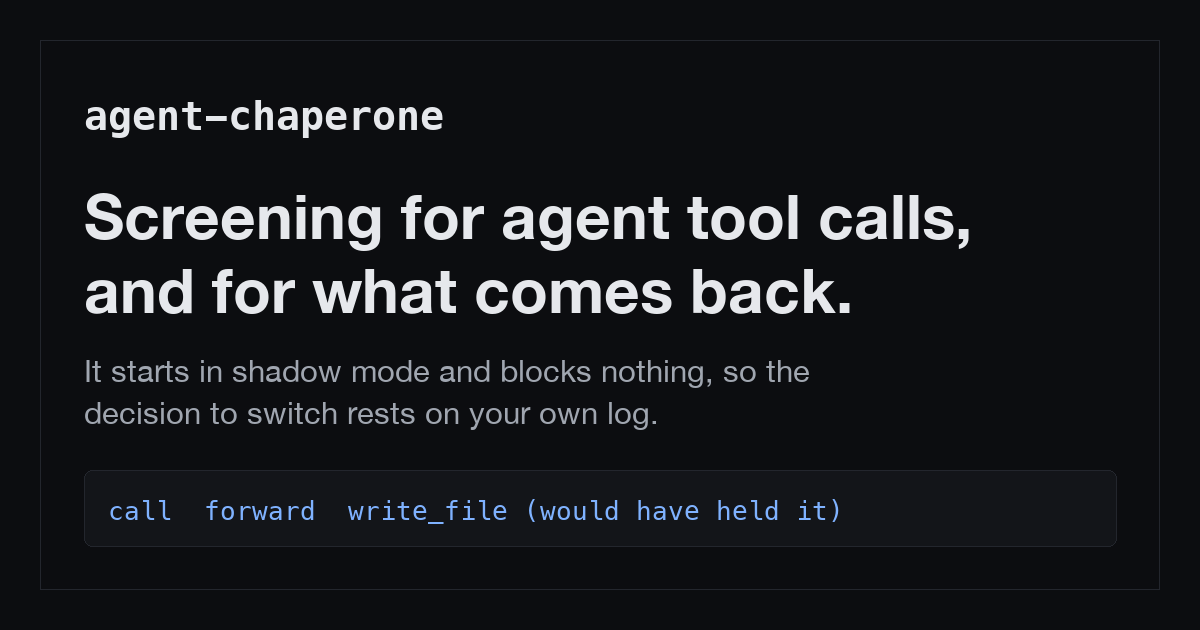
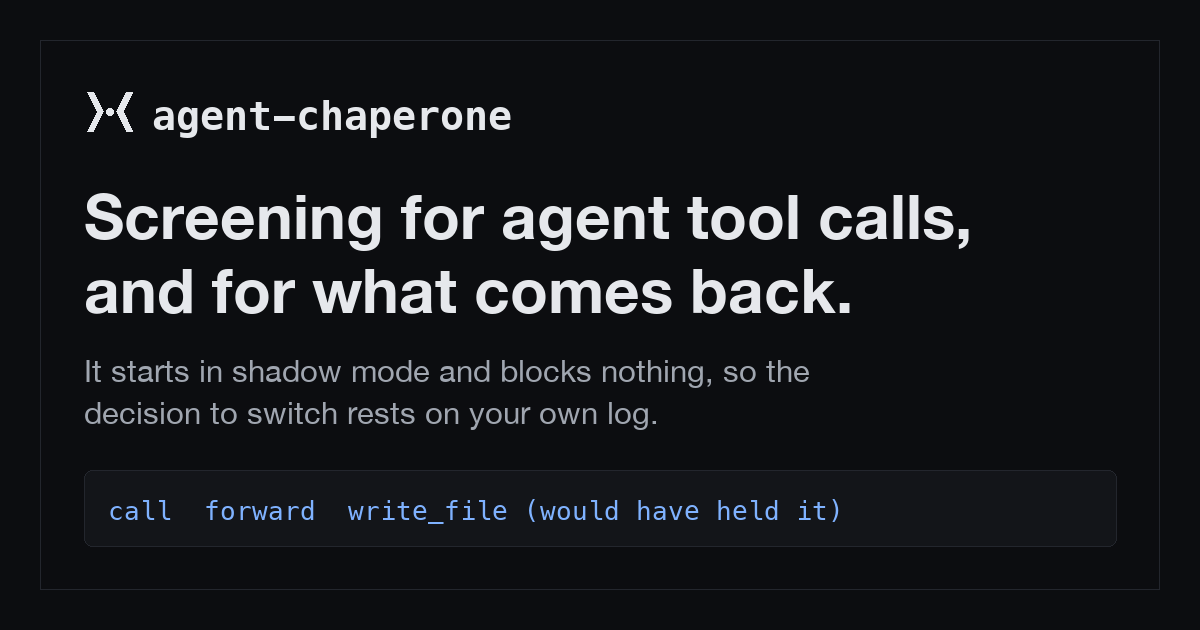
fix: use the project mark instead of one I drew
The mark already existed as the organisation avatar: two chevrons facing inward with a dot between them, which is the thing sitting between an agent and its tools. I did not look for it and drew a generic shield with a tick in it, which is every security tool's placeholder and says nothing about this one.

The geometry here is traced from the avatar and checked against it rather than eyeballed: rendering these paths and diffing them against the original leaves 0.35 percent of pixels different, all of it edge antialiasing.

It now appears in three places that previously had nothing or had the shield: the favicon, the header beside the wordmark, and the social card, which had no mark on it at all.

public/logo.svg is the bare mark in currentColor so it takes the colour of whatever it sits in, and the favicon is the same geometry on the dark rounded square the avatar uses.

Changed region(s): [[0.0617, 0.1508, 0.4317, 0.2413]]

diff --git a/scripts/make-og.py b/scripts/make-og.py
@@ -28,6 +28,25 @@ def font(path: str, size: int, index: int = 0) -> ImageFont.FreeTypeFont:
     return ImageFont.truetype(path, size, index=index)
 
 
+def draw_mark(d: ImageDraw.ImageDraw, x: int, y: int, size: int, fill: tuple) -> None:
+    """The project mark: two chevrons facing inward with a dot between them.
+
+    Same geometry as public/logo.svg, scaled from its 460 unit box.
+    """
+    k = size / 460
+
+    def at(pts):
+        return [(x + px * k, y + py * k) for px, py in pts]
+
+    d.polygon(at([(30, 57), (85, 57), (172, 229.5), (85, 402), (30, 402), (115, 229.5)]), fill=fill)
+    d.polygon(
+        at([(430, 57), (375, 57), (288, 229.5), (375, 402), (430, 402), (345, 229.5)]), fill=fill
+    )
+    r = 30.5 * k
+    cx, cy = x + 229.5 * k, y + 229.5 * k
+    d.ellipse([cx - r, cy - r, cx + r, cy + r], fill=fill)
+
+
 def main() -> None:
     img = Image.new("RGB", (W, H), BG)
     d = ImageDraw.Draw(img)
@@ -35,7 +54,8 @@ def main() -> None:
     # A hairline frame, the same one pixel the site uses between sections.
     d.rectangle([40, 40, W - 41, H - 41], outline=LINE, width=1)
 
-    d.text((84, 92), "agent-chaperone", font=font(MONO, 40, 1), fill=INK)
+    draw_mark(d, x=84, y=86, size=52, fill=INK)
+    d.text((152, 92), "agent-chaperone", font=font(MONO, 40, 1), fill=INK)
 
     headline = ["Screening for agent tool calls,", "and for what comes back."]
     y = 178
